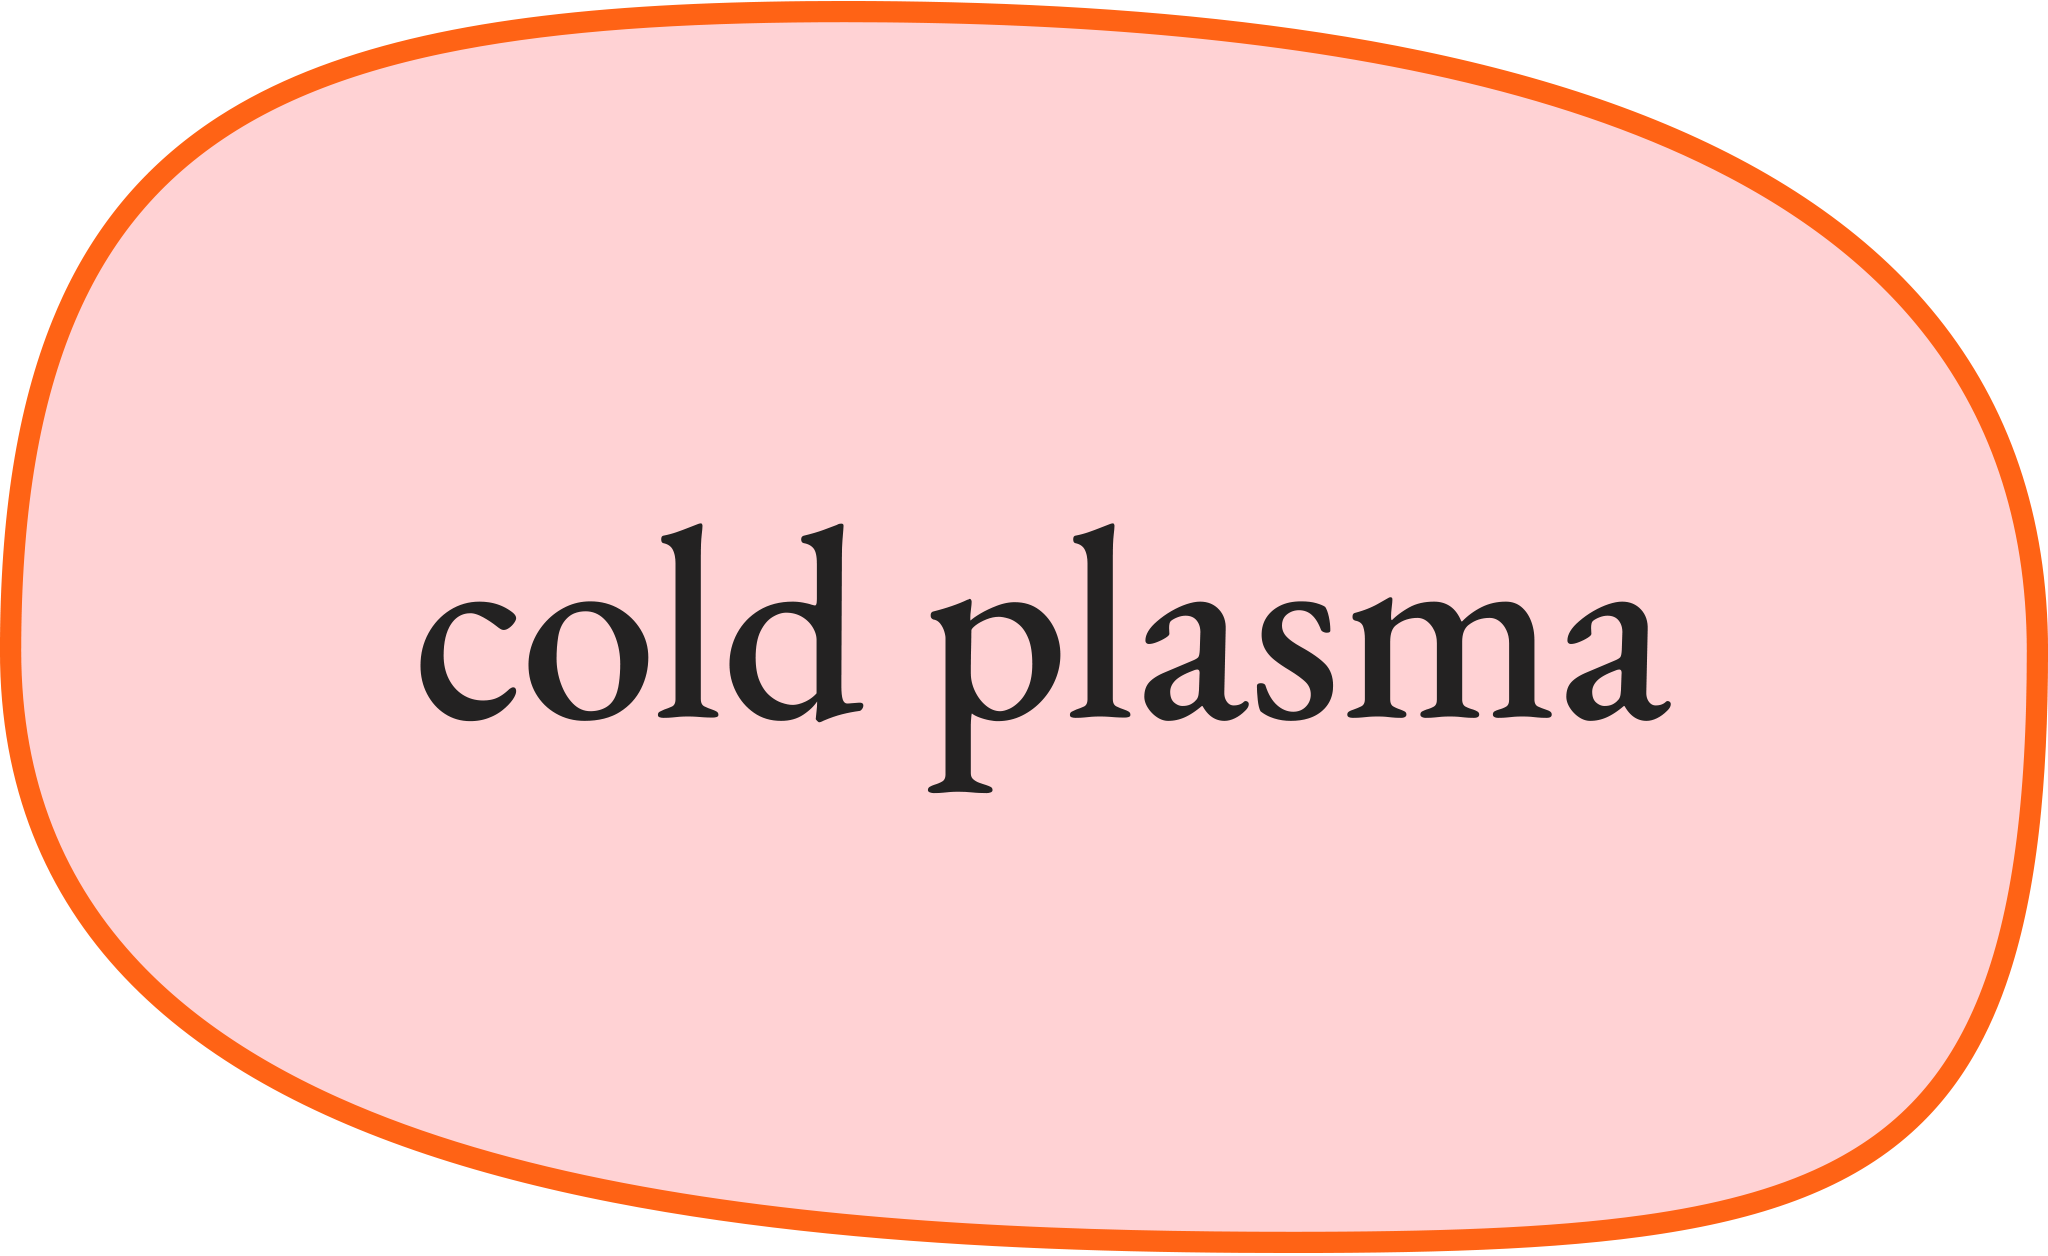
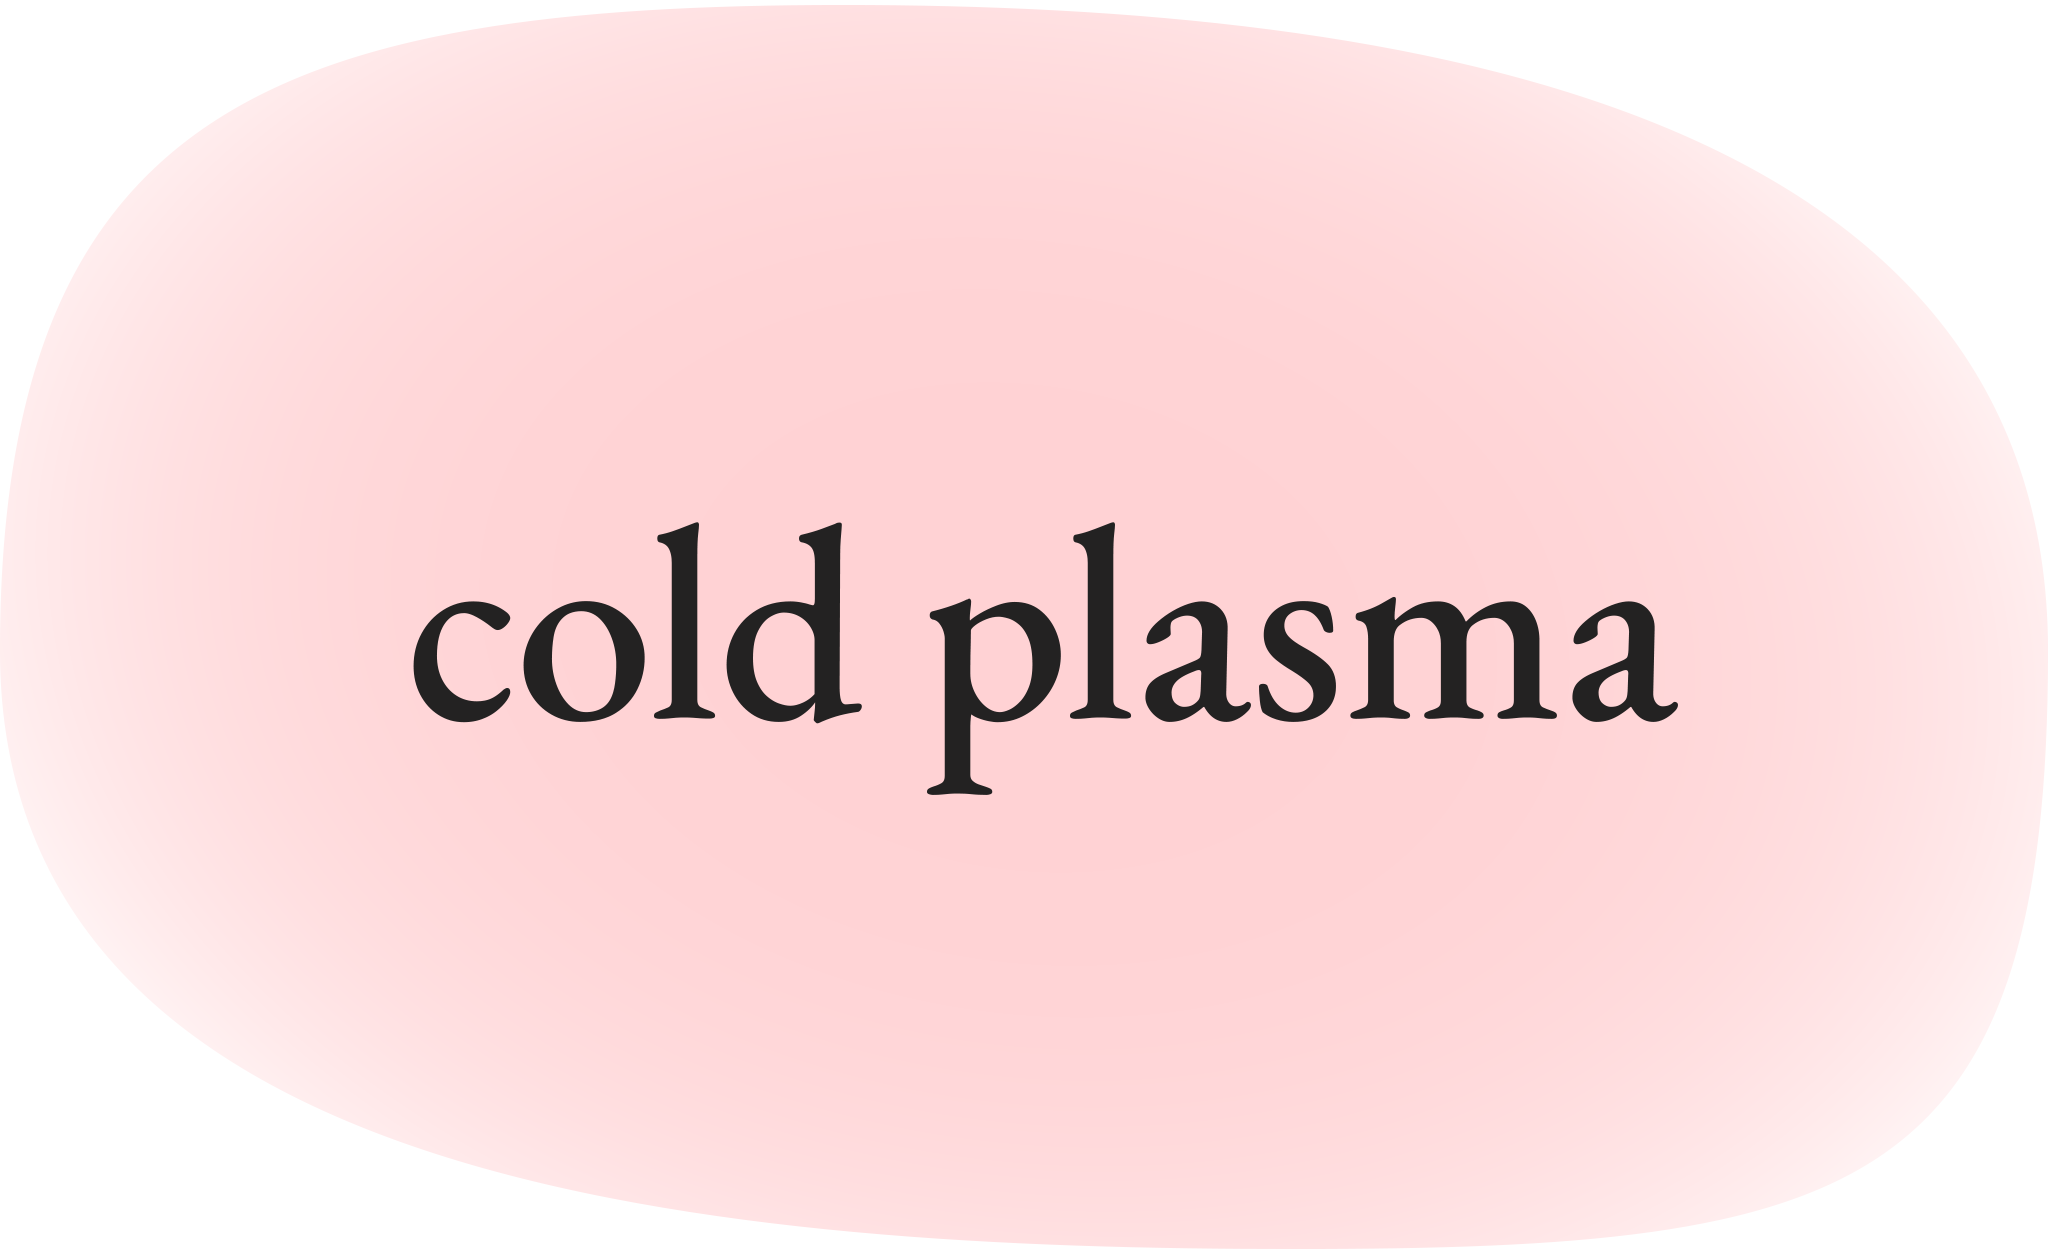
zmiany w shapes .png

diff --git a/src/index.css b/src/index.css
@@ -131,7 +131,6 @@ canvas {
     font-family: "Lato", sans-serif;
     color: #000;
     text-transform: uppercase;
-    border-bottom: 2px solid #000;
     padding-bottom: 3px;
     letter-spacing: 1px;
     margin-bottom: 5px;
@@ -214,6 +213,20 @@ canvas {
     font-size: 1rem;
 }
 
+button {
+    width: 120px;
+    height: 35px;
+    border: solid #fff;
+    border-radius: 35px;
+    background-color: #6666ff;
+    color: white;
+    font-size: 1rem;
+    font-family: "Lato", sans-serif;
+    padding: 0;
+    vertical-align: middle;
+    text-align: center;
+}
+
 .animateIndex {
     animation: blinker 1s linear;
 }
@@ -226,6 +239,22 @@ canvas {
 
     body {
         overflow: hidden;
+    }
+
+    #popupBox {
+        width: 75%;
+        height: 70%;
+        padding: 25px;
+    }
+
+    #popupTitle {
+        line-height: 2rem;
+        font-size: 2rem;
+    }
+
+    #popupText {
+        font-size: 1.2rem;
+        line-height: 1.2rem;
     }
 
     #main {

diff --git a/src/index.js b/src/index.js
@@ -82,7 +82,7 @@ function preload() {
         nodeData[i].symbol = imageData[i];
     }
 
-    bgImg = loadImage('img/bg01.png');
+    bgImg = loadImage('img/add/1.png');
 }
 
 function setup() {
@@ -235,7 +235,7 @@ function createNewNode(node) {
             nodes.push(newNode);
 
             if (newNode.name === 'biochar') {
-                const newBgImg = new additionalImg(bgImg, 0, -innerHeight + updateNodeY + nodeW / 2 - width / 2);
+                const newBgImg = new additionalImg(bgImg, 0, updateNodeY + nodeH/2 - 140, 459, 283);
                 addImages.push(newBgImg);
             }
 

diff --git a/src/functions.js b/src/functions.js
@@ -173,7 +173,7 @@ class LineObject {
 }
 
 class additionalImg {
-    constructor(fileName, x, y) {
+    constructor(fileName, x, y, width, height) {
         this.fileName = fileName;
         this.x = x;
         this.y = y;
@@ -182,6 +182,6 @@ class additionalImg {
     }
 
     render() {
-        image(this.fileName, this.x, this.y, width, height, 0, 0, this.fileName.width, this.fileName.height, CONTAIN);
+        image(this.fileName, this.x, this.y, this.width, this.height);
     }
 }

diff --git a/src/index.html b/src/index.html
@@ -19,7 +19,7 @@
             incididunt ut labore et dolore magna aliqua. Ut enim ad minim veniam, quis nostrud
             exercitation ullamco laboris nisi ut aliquip ex ea commodo consequat.
             <br><br></div>
-        <div class="alert">Close this window by tapping the box</div>
+        <div class="alert">Close by tapping the box</div>
     </div>
 </div>
 
